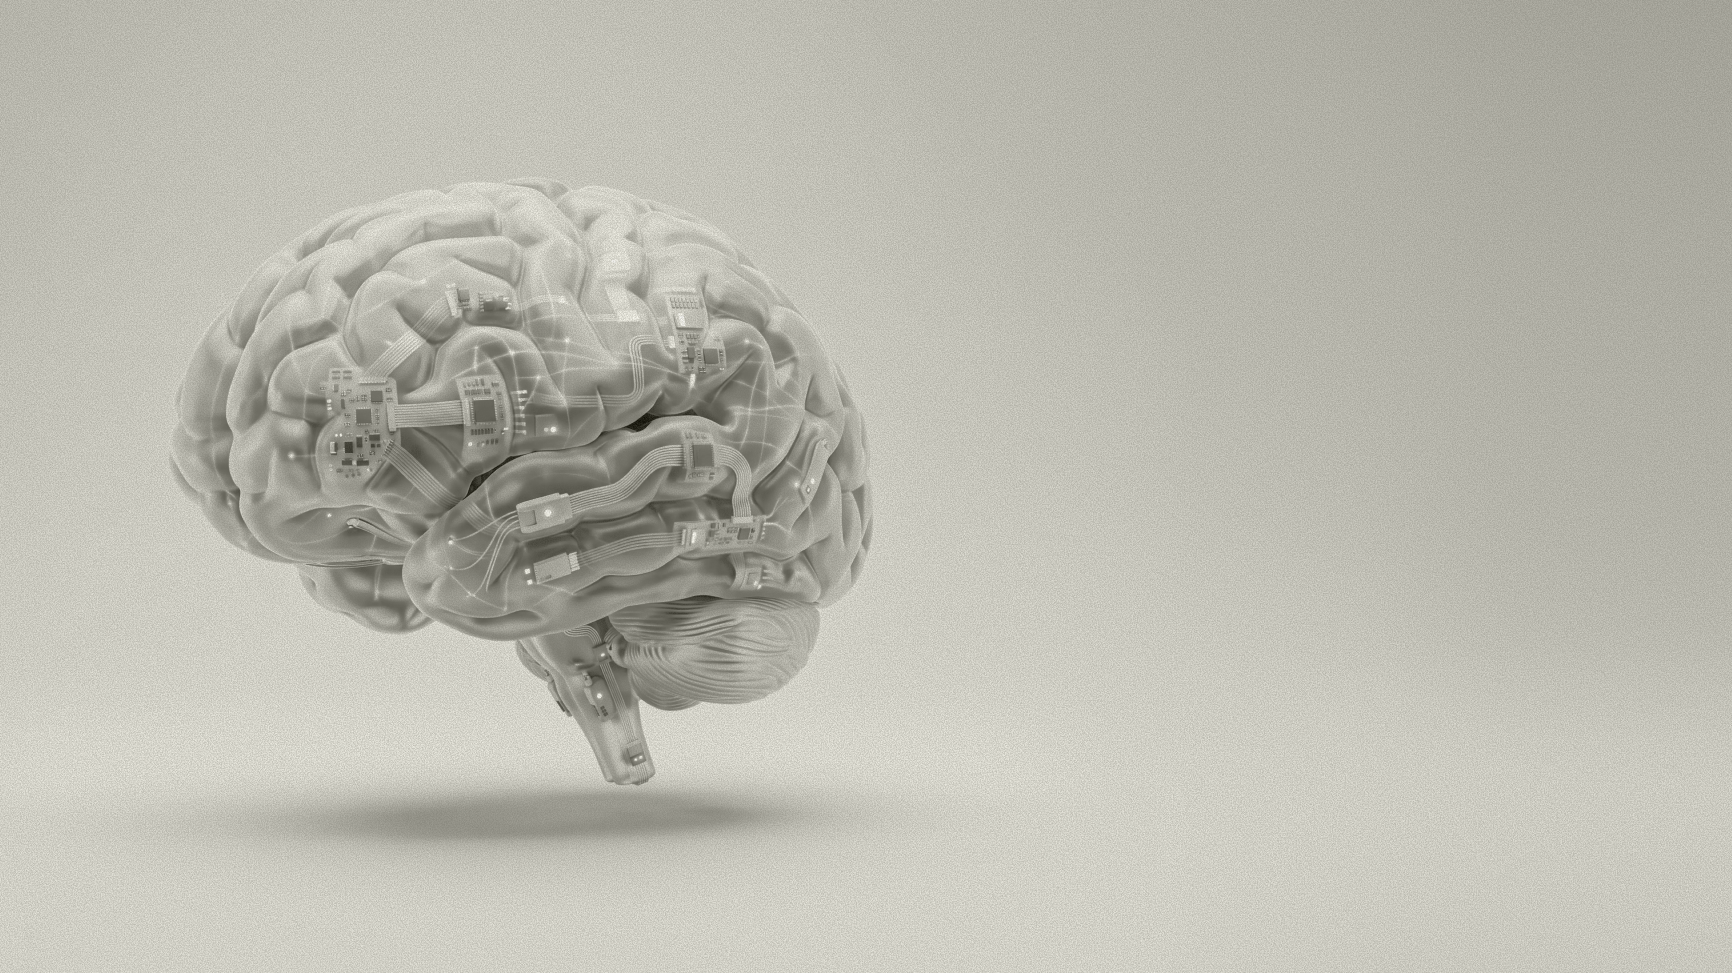
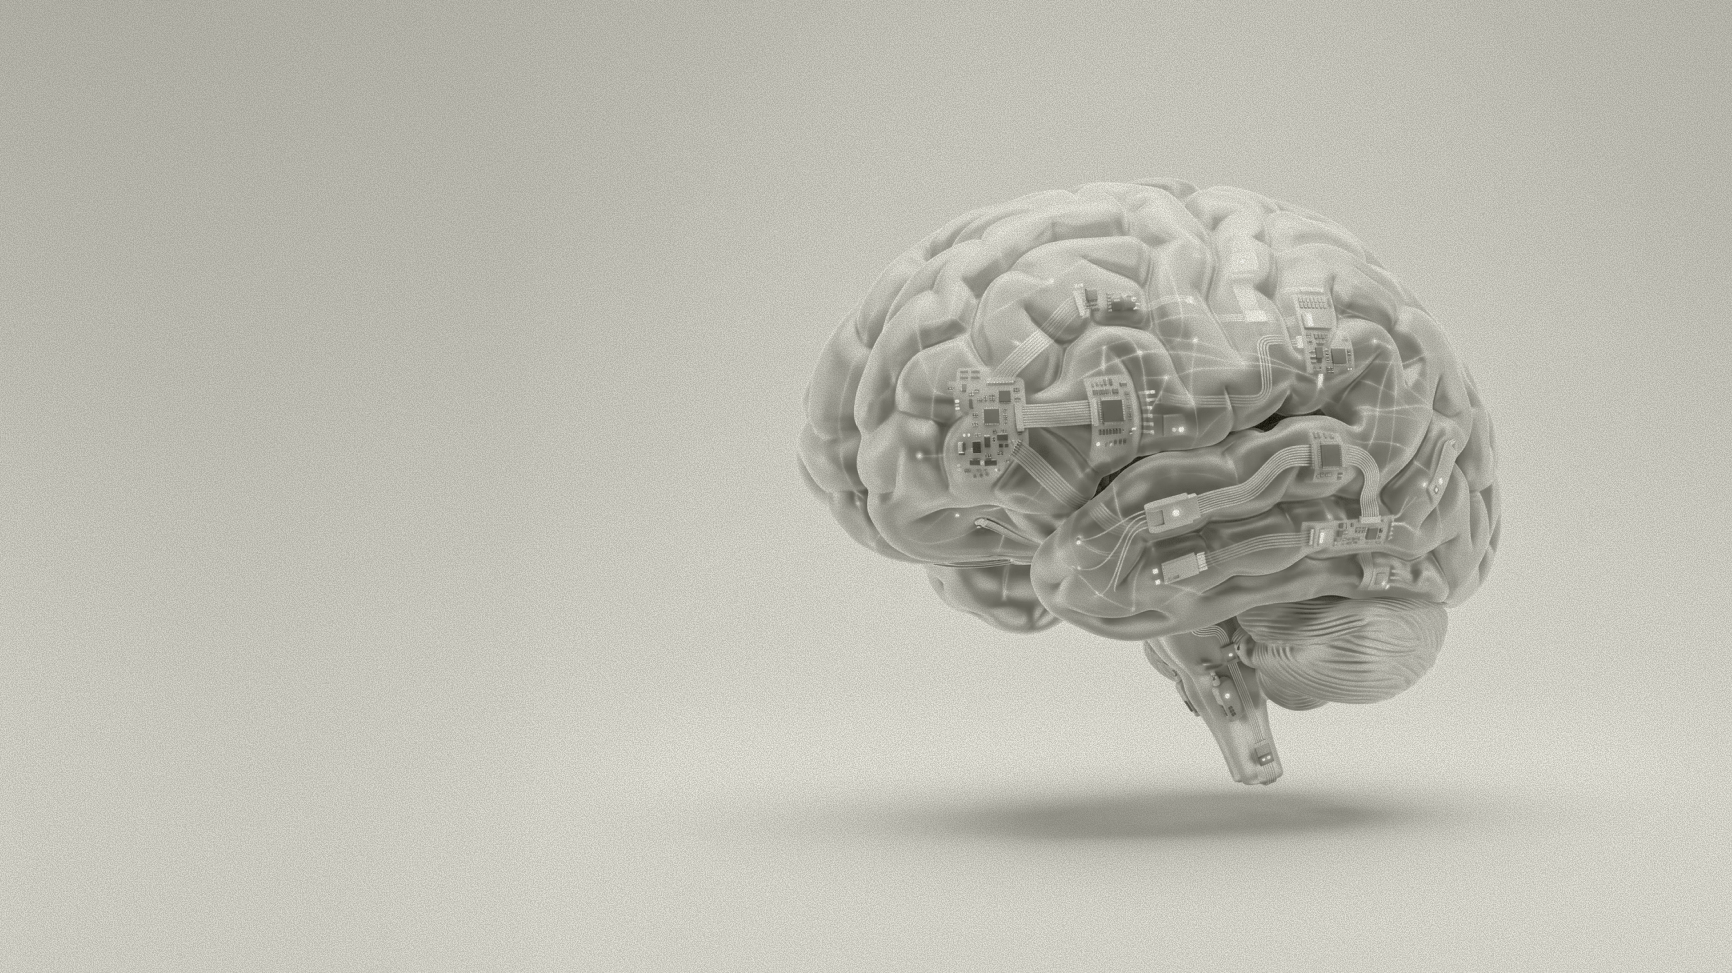
Fix About page mentor headshots and mentorship grid styling
Replace placeholder "Antonello Crimi / UX/UI Design" text across all 10
mentor cards with each person's actual name and role, matched to their
headshot from the current Figma design. Also fix MentorshipGrid section
background (coral to cream, so button hover states stay visible) and
grid row spacing, and swap in updated closing-CTA/cost-commitment/intro
images.

diff --git a/src/app/about/page.tsx b/src/app/about/page.tsx
@@ -71,28 +71,28 @@ const labs = [
 
 const mentors = [
   { name: "Antonello Crimi", role: "UX/UI Design", image: "/images/image 383.png" },
-  { name: "Antonello Crimi", role: "UX/UI Design", image: "/images/image 384.png" },
-  { name: "Antonello Crimi", role: "UX/UI Design", image: "/images/image 385.png" },
-  { name: "Antonello Crimi", role: "UX/UI Design", image: "/images/image 386.png" },
-  { name: "Antonello Crimi", role: "UX/UI Design", image: "/images/image 387.png" },
-  { name: "Antonello Crimi", role: "UX/UI Design", image: "/images/image 388.png" },
-  { name: "Antonello Crimi", role: "UX/UI Design", image: "/images/image 389.png" },
-  { name: "Antonello Crimi", role: "UX/UI Design", image: "/images/image 390.png" },
-  { name: "Antonello Crimi", role: "UX/UI Design", image: "/images/image 391.png" },
-  { name: "Antonello Crimi", role: "UX/UI Design", image: "/images/image 392.png" },
+  { name: "Bethany Brown", role: "Service Design", image: "/images/image 384.png" },
+  { name: "Chris Blower", role: "Mechanical Eng.", image: "/images/image 385.png" },
+  { name: "Fabrice Pouani", role: "RF Engineering", image: "/images/image 386.png" },
+  { name: "John Staskevitch", role: "Firmware Eng.", image: "/images/image 387.png" },
+  { name: "Martha Calderon", role: "Electrical Eng.", image: "/images/image 388.png" },
+  { name: "Josh Baillon", role: "SV Ecosystem", image: "/images/image 389.png" },
+  { name: "Ryan Starling", role: "Industrial Design", image: "/images/image 390.png" },
+  { name: "Kamil Klamann", role: "Strategy", image: "/images/image 391.png" },
+  { name: "Peter Hauser", role: "N.P.I.", image: "/images/image 392.png" },
 ];
 
 export default function AboutPage() {
   const costCommitmentRef = useRef<HTMLDivElement>(null);
   const progressionRef = useRef<HTMLDivElement>(null);
   const labFacilitiesRef = useRef<HTMLDivElement>(null);
-  const partnerBenefitsRef = useRef<HTMLDivElement>(null);
+  const eventsEnterpriseRef = useRef<HTMLDivElement>(null);
 
   // Refs are stable across renders, so this array's identity is too —
   // keeps SiteNav's watcher effect from tearing down/recreating its
   // ScrollTriggers on every re-render (e.g. each isOverDark toggle).
   const darkSectionRefs = useMemo(
-    () => [costCommitmentRef, progressionRef, labFacilitiesRef, partnerBenefitsRef],
+    () => [costCommitmentRef, progressionRef, labFacilitiesRef, eventsEnterpriseRef],
     []
   );
 
@@ -114,7 +114,7 @@ export default function AboutPage() {
         <ImageTextFoldMobile
           id="about-intro"
           bg="light"
-          image={withBasePath("/images/about-intro.png")}
+          image={withBasePath("/images/about-intro.jpg")}
           heading="Atelier West is a 12-week, cash- and equity-free residency program for committed, ambitious Physical AI startups."
           body="Cohort companies work out of our San Francisco Mission Rock labs, get structured time to work directly with experts in design, strategy, hardware, and AI, and close the program with a demo day in front of enterprise partners and investors."
         />
@@ -123,7 +123,7 @@ export default function AboutPage() {
           id="cost-commitment"
           bg="dark"
           sectionRef={costCommitmentRef}
-          image={withBasePath("/images/about-cost-commitment.png")}
+          image={withBasePath("/images/about-cost-commitment.jpg")}
           heading="Cost & Commitment"
           body={[
             "The program is free for participants - no equity, no cash. You will be asked for a refundable deposit tied to lab access.",
@@ -149,7 +149,8 @@ export default function AboutPage() {
 
         <ImageTextFoldMobile
           id="events-enterprise"
-          bg="light"
+          bg="dark"
+          sectionRef={eventsEnterpriseRef}
           image={withBasePath("/images/about-events-enterprise.png")}
           heading="Events & Enterprise Access"
           body="Beyond 1:1 mentorship, you'll join a handful of group workshops throughout the program, built around your cohort's needs and connecting you with relevant enterprise companies. The program closes with a demo day in front of enterprise partners and investors."
@@ -157,8 +158,7 @@ export default function AboutPage() {
 
         <ImageTextFoldMobile
           id="partner-benefits"
-          bg="dark"
-          sectionRef={partnerBenefitsRef}
+          bg="light"
           image={withBasePath("/images/about-partner-benefits.png")}
           heading="Partner Benefits"
           body="Cohort participants will also be prioritized to join NVIDIA's Inception Program. Companies in this program get access to the latest developer tools and training, preferred pricing on NVIDIA hardware and software, exclusive offers from partners, and exposure to a global ecosystem of investors. Participants will need to submit a separate, short application for Inception, which will be linked to from our Application form."
@@ -189,7 +189,7 @@ export default function AboutPage() {
       <ImageTextFold
         id="about-intro"
         bg="light"
-        image={withBasePath("/images/about-intro.png")}
+        image={withBasePath("/images/about-intro.jpg")}
         heading="Atelier West is a 12-week, cash- and equity-free residency program for committed, ambitious Physical AI startups."
         body="Cohort companies work out of our San Francisco Mission Rock labs, get structured time to work directly with experts in design, strategy, hardware, and AI, and close the program with a demo day in front of enterprise partners and investors."
       />
@@ -198,7 +198,7 @@ export default function AboutPage() {
         id="cost-commitment"
         bg="dark"
         sectionRef={costCommitmentRef}
-        image={withBasePath("/images/about-cost-commitment.png")}
+        image={withBasePath("/images/about-cost-commitment.jpg")}
         heading="Cost & Commitment"
         body={[
           "The program is free for participants - no equity, no cash. You will be asked for a refundable deposit tied to lab access.",
@@ -224,7 +224,8 @@ export default function AboutPage() {
 
       <ImageTextFold
         id="events-enterprise"
-        bg="light"
+        bg="dark"
+        sectionRef={eventsEnterpriseRef}
         image={withBasePath("/images/about-events-enterprise.png")}
         heading="Events & Enterprise Access"
         body="Beyond 1:1 mentorship, you'll join a handful of group workshops throughout the program, built around your cohort's needs and connecting you with relevant enterprise companies. The program closes with a demo day in front of enterprise partners and investors."
@@ -232,8 +233,7 @@ export default function AboutPage() {
 
       <ImageTextFold
         id="partner-benefits"
-        bg="dark"
-        sectionRef={partnerBenefitsRef}
+        bg="light"
         image={withBasePath("/images/about-partner-benefits.png")}
         heading="Partner Benefits"
         body="Cohort participants will also be prioritized to join NVIDIA's Inception Program. Companies in this program get access to the latest developer tools and training, preferred pricing on NVIDIA hardware and software, exclusive offers from partners, and exposure to a global ecosystem of investors. Participants will need to submit a separate, short application for Inception, which will be linked to from our Application form."

diff --git a/src/components/folds/about/MentorshipGrid.tsx b/src/components/folds/about/MentorshipGrid.tsx
@@ -19,10 +19,14 @@ interface MentorshipGridProps {
  * aspect ratio (no forced box, no object-cover crop) rather than the
  * fixed 290:321 box this briefly had — that box didn't match the real
  * headshots' native ratio and was trimming them.
+ *
+ * Cream (surface-light), not coral — coral's hover-sweep on the nav/CTA
+ * buttons is itself coral, so a coral section background made the button
+ * disappear on hover while scrolled over it.
  */
 export function MentorshipGrid({ heading, intro, mentors }: MentorshipGridProps) {
   return (
-    <div className="bg-surface-accent text-text-on-light py-24">
+    <div className="bg-surface-light text-text-on-light py-24">
       <FoldGrid>
         <div className="col-start-1 col-span-8 sm:col-span-5 flex flex-col gap-6 max-w-(--max-width-content)">
           <h2 className="font-display text-h2">{heading}</h2>
@@ -30,7 +34,7 @@ export function MentorshipGrid({ heading, intro, mentors }: MentorshipGridProps)
         </div>
       </FoldGrid>
 
-      <div className="mt-16 grid grid-cols-2 gap-6 px-(--spacing-page) sm:grid-cols-3 lg:grid-cols-5">
+      <div className="mt-16 grid grid-cols-2 gap-x-6 gap-y-16 px-(--spacing-page) sm:grid-cols-3 lg:grid-cols-5">
         {mentors.map((mentor, i) => (
           <div key={`${mentor.name}-${i}`} className="flex flex-col gap-4">
             <img src={withBasePath(mentor.image)} alt="" className="w-full h-auto" />
